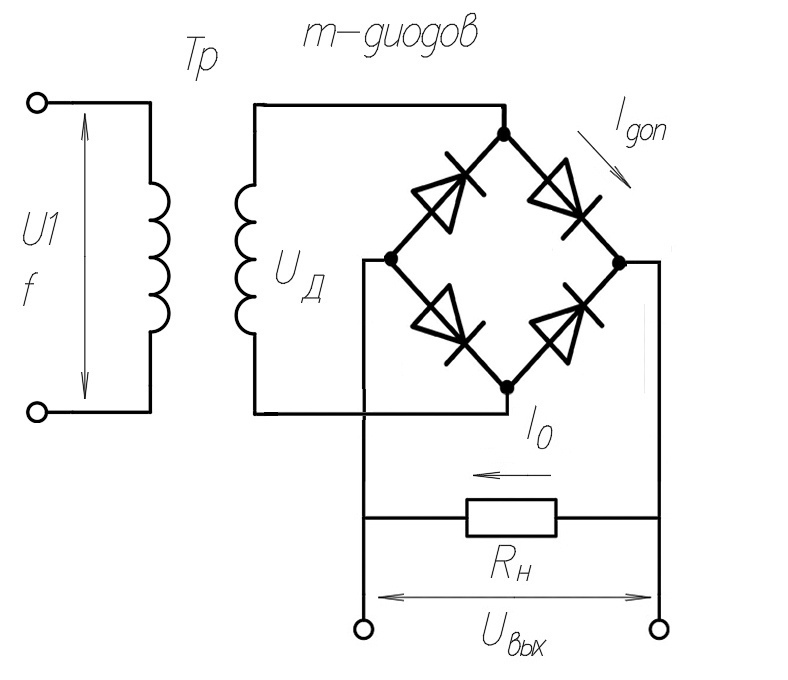
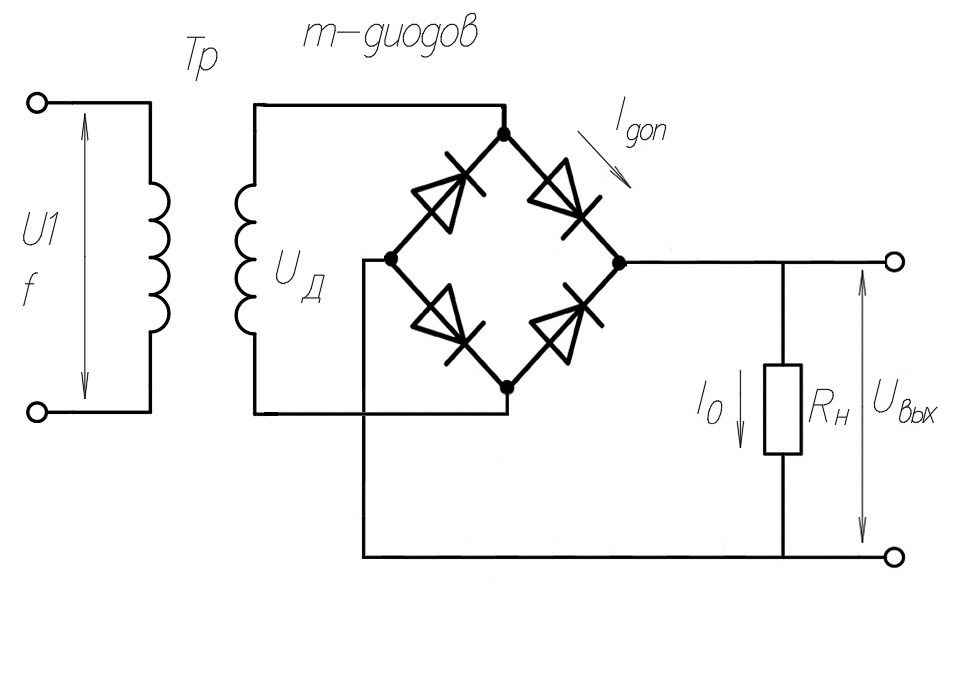
Перенос алгоритмов в функции и исправление картинок для схемы Греца

diff --git a/PowerSources/Rectifiers/RectifiersOnePeriodCircuit.cpp b/PowerSources/Rectifiers/RectifiersOnePeriodCircuit.cpp
@@ -35,14 +35,87 @@ void RectifiersOnePeriodCircuit::FFilters(int number)
     }
 }
 //--------------------------------------------------------------------------------------------------------------------------------------------------------------------------------------
-double RectifiersOnePeriodCircuit::Capacitor(double Rn,double f,double Kp)
+void RectifiersOnePeriodCircuit::Capacitor()
 {
-    return (double)3/(4*f*Rn*log(1+Kp)); // результат в Ф
+    //новый алгоритм вычисления:
+    U0 = I0*Rn;
+    Um_input = U0;
+    C = 0;
+
+    double U_peak = 2*U0;
+    double U0_calculate = 0;
+    double Kp_calculate = 0;
+
+    double accuracy_Um_input = 0.1;
+    double accuracy_C = 0.000001;
+
+    double start_time = clock();
+    double time_program = 0.0;
+
+    while(Kp_calculate < Kp)
+    {
+        Um_input += accuracy_Um_input;
+        C = 0;
+
+        CalculateCapacityParameters(&U0_calculate, &Kp_calculate, &U_peak);
+
+        while(U0_calculate < U0)
+        {
+            C += accuracy_C;
+            CalculateCapacityParameters(&U0_calculate, &Kp_calculate, &U_peak);
+        }
+
+        time_program = clock();
+        time_program = time_program - start_time;
+
+        if(time_program > 5000)
+        {
+            flagCalculate = true;
+            break;
+        }
+    }
 }
 //--------------------------------------------------------------------------------------------------------------------------------------------------------------------------------------
-double RectifiersOnePeriodCircuit::Inductor(double Rn,double f,double Kp)
+void RectifiersOnePeriodCircuit::Inductor()
 {
-    return (double)(3*1000*Rn)/(4*f*log(1+Kp)); // результат в мГн
+    //новый алгоритм вычисления:
+    U0 = I0*Rn;                             // средневыпрямленное напряжение
+    Um_input = U0;
+    L = 0;
+
+    double U_peak = U0;
+    double I0_calculate = 0;
+    double Kp_calculate = 0;
+
+    double accuracy_Um_input = 0.1;
+    double accuracy_L = 0.1;
+
+    double start_time = clock();
+    double time_program = 0.0;
+
+    while(I0_calculate < I0 || Kp_calculate > Kp)
+    {
+        L += accuracy_L/100;
+
+        CalculateInductorParameters(&I0_calculate, &Kp_calculate, &U_peak);
+
+        while(U_peak <= U0)
+        {
+            Um_input += accuracy_Um_input;
+            L = 0;
+
+            CalculateInductorParameters(&I0_calculate, &Kp_calculate, &U_peak);
+        }
+
+        time_program = clock();
+        time_program = time_program - start_time;
+
+        if(time_program > 5000)
+        {
+            flagCalculate = true;
+            break;
+        }
+    }
 }
 //--------------------------------------------------------------------------------------------------------------------------------------------------------------------------------------
 void RectifiersOnePeriodCircuit::Calculate()
@@ -56,93 +129,16 @@ void RectifiersOnePeriodCircuit::Calculate()
     Um_input = U0*(1+Kp);                             // Максимальное значение напряжения на вторичной обмотке
     Ud_input = Um_input/sqrt(2);                      // Действующее значение напряжения на входе
 
-    if(flagFilters == 1)                              // Вычисление C или L выходного фильтра
-    {
-        C = Capacitor(Rn,f,Kp);
-//      L = Inductor(Rn,f,Kp); привести алгоритм снизу к единой функции
-    }
-
     if(flagFilters == 1)                              // Вычисление C выходного фильтра
     {
         //новый алгоритм вычисления:
-        U0 = I0*Rn;
-        Um_input = U0;
-        C = 0;
-
-        double U_peak = 2*U0;
-        double U0_calculate = 0;
-        double Kp_calculate = 0;
-
-        double accuracy_Um_input = 0.1;
-        double accuracy_C = 0.000001;
-
-        double start_time = clock();
-        double time_program = 0.0;
-
-        while(Kp_calculate < Kp)
-        {
-            Um_input += accuracy_Um_input;
-            C = 0;
-
-            CalculateCapacityParameters(&U0_calculate, &Kp_calculate, &U_peak);
-
-            while(U0_calculate < U0)
-            {
-                C += accuracy_C;
-                CalculateCapacityParameters(&U0_calculate, &Kp_calculate, &U_peak);
-            }
-
-            time_program = clock();
-            time_program = time_program - start_time;
-
-            if(time_program > 5000)
-            {
-                flagCalculate = true;
-                break;
-            }
-        }
+        Capacitor();
     }
 
     if(flagFilters == 2)                              // Вычисление L выходного фильтра
     {
         //новый алгоритм вычисления:
-        U0 = I0*Rn;                             // средневыпрямленное напряжение
-        Um_input = U0;
-        L = 0;
-
-        double U_peak = U0;
-        double I0_calculate = 0;
-        double Kp_calculate = 0;
-
-        double accuracy_Um_input = 0.1;
-        double accuracy_L = 0.1;
-
-        double start_time = clock();
-        double time_program = 0.0;
-
-        while(I0_calculate < I0 || Kp_calculate > Kp)
-        {
-            L += accuracy_L/100;
-
-            CalculateInductorParameters(&I0_calculate, &Kp_calculate, &U_peak);
-
-            while(U_peak <= U0)
-            {
-                Um_input += accuracy_Um_input;
-                L = 0;
-
-                CalculateInductorParameters(&I0_calculate, &Kp_calculate, &U_peak);
-            }
-
-            time_program = clock();
-            time_program = time_program - start_time;
-
-            if(time_program > 5000)
-            {
-                flagCalculate = true;
-                break;
-            }
-        }
+        Inductor();
     }
 }
 //--------------------------------------------------------------------------------------------------------------------------------------------------------------------------------------

diff --git a/PowerSources/Rectifiers/Rectifiers.cpp b/PowerSources/Rectifiers/Rectifiers.cpp
@@ -262,7 +262,7 @@ void Rectifiers::on_ComboBox_OutPutF_currentIndexChanged(int index)
                 ui->DoubleSpinBoxR_OutPut2->setEnabled(false);
                 ui->DoubleSpinBoxR_OutPut3->setEnabled(false);
 
-                ui->Label_PixMapCircuit->setMaximumHeight(600);
+                ui->Label_PixMapCircuit->setMaximumHeight(450);
                 mapCircuit.load(":/image/img/RTPCircuit1.jpg");
                 mapProperties.load(":/image/img/ROPCircuitProperties.jpg");
                 ui->Label_PixMapCircuit->setPixmap(mapCircuit);
@@ -287,7 +287,7 @@ void Rectifiers::on_ComboBox_OutPutF_currentIndexChanged(int index)
                 ui->DoubleSpinBoxR_OutPut2->setEnabled(false);
                 ui->DoubleSpinBoxR_OutPut3->setEnabled(false);
 
-                ui->Label_PixMapCircuit->setMaximumHeight(700);
+                ui->Label_PixMapCircuit->setMaximumHeight(400);
                 mapCircuit.load(":/image/img/RTPCircuit2.jpg");
                 mapProperties.load(":/image/img/ROPCircuitProperties.jpg");
                 ui->Label_PixMapCircuit->setPixmap(mapCircuit);
@@ -312,7 +312,7 @@ void Rectifiers::on_ComboBox_OutPutF_currentIndexChanged(int index)
                 ui->DoubleSpinBoxR_OutPut2->setEnabled(false);
                 ui->DoubleSpinBoxR_OutPut3->setEnabled(false);
 
-                ui->Label_PixMapCircuit->setMaximumHeight(600);
+                ui->Label_PixMapCircuit->setMaximumHeight(400);
                 mapCircuit.load(":/image/img/RTPCircuit3.jpg");
                 mapProperties.load(":/image/img/ROPCircuitProperties.jpg");
                 ui->Label_PixMapCircuit->setPixmap(mapCircuit);

diff --git a/PowerSources/Rectifiers/RectifiersOnePeriodCircuit.h b/PowerSources/Rectifiers/RectifiersOnePeriodCircuit.h
@@ -14,8 +14,8 @@ public:
     void FFilters(int number);
     void Calculate();
 
-    double Inductor(double Rh,double f,double Kp);
-    double Capacitor(double Rh,double f,double Kp);
+    void Inductor();
+    void Capacitor();
 
     double OutputVoltageWaveform(double t);
 

diff --git a/PowerSources/Rectifiers/Rectifiers.h b/PowerSources/Rectifiers/Rectifiers.h
@@ -20,6 +20,8 @@ public:
     explicit Rectifiers(QWidget *parent = nullptr);
     ~Rectifiers();
 
+
+
     RectifiersAbstract* object_work = nullptr;
 
     QPixmap mapCircuit;
